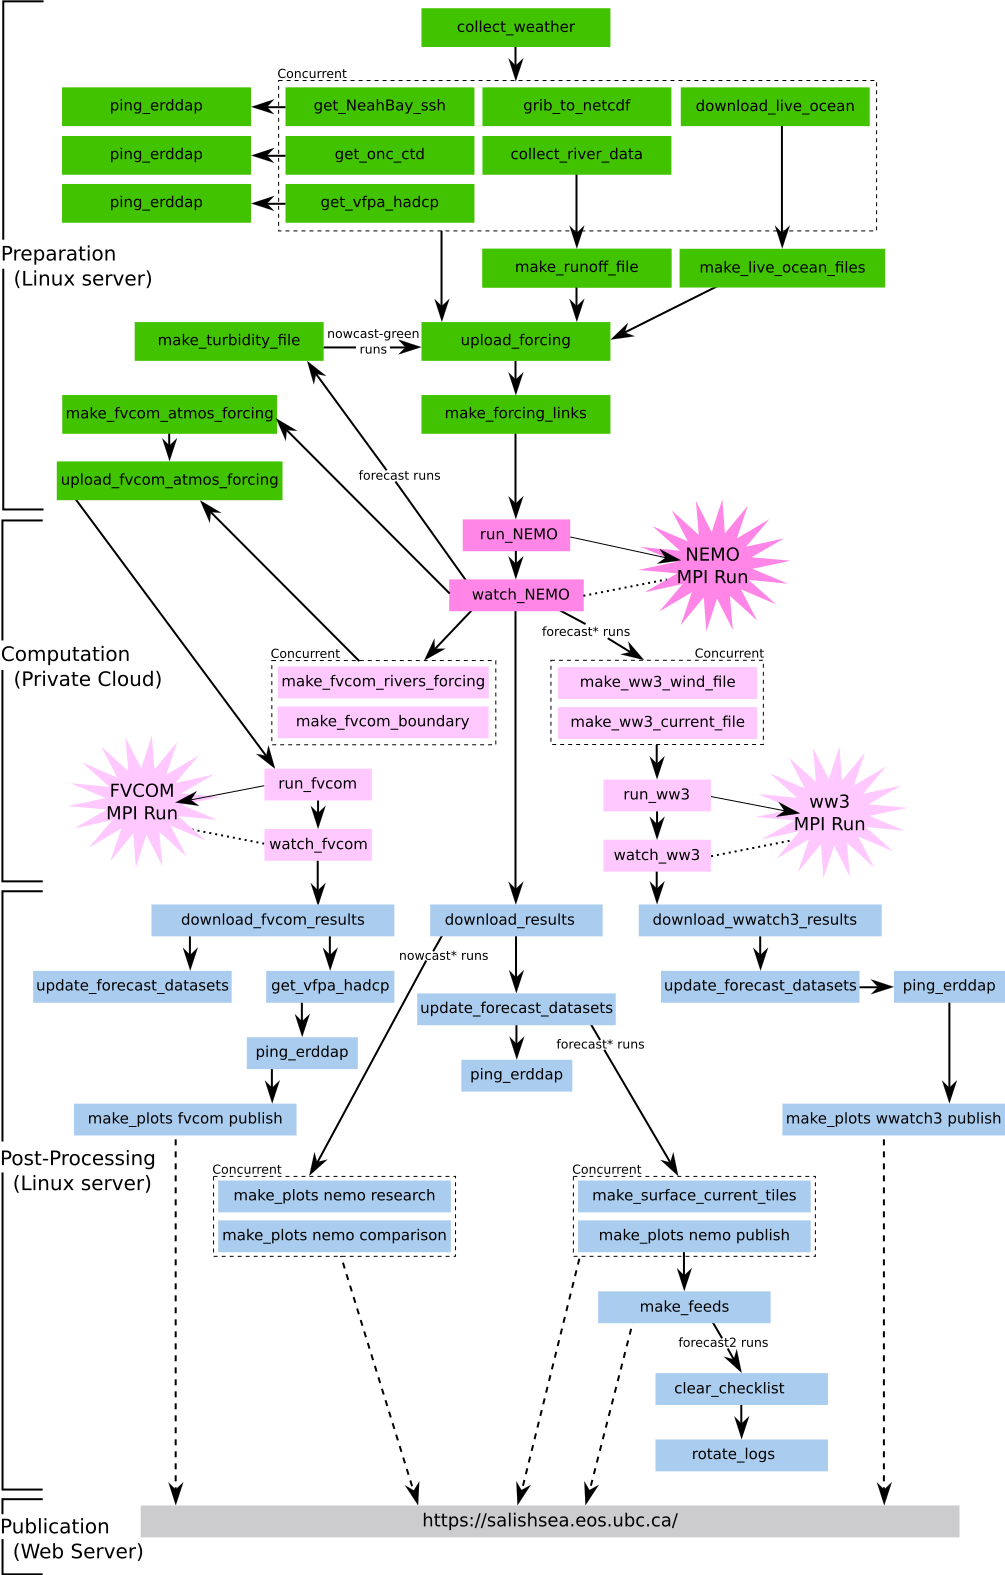
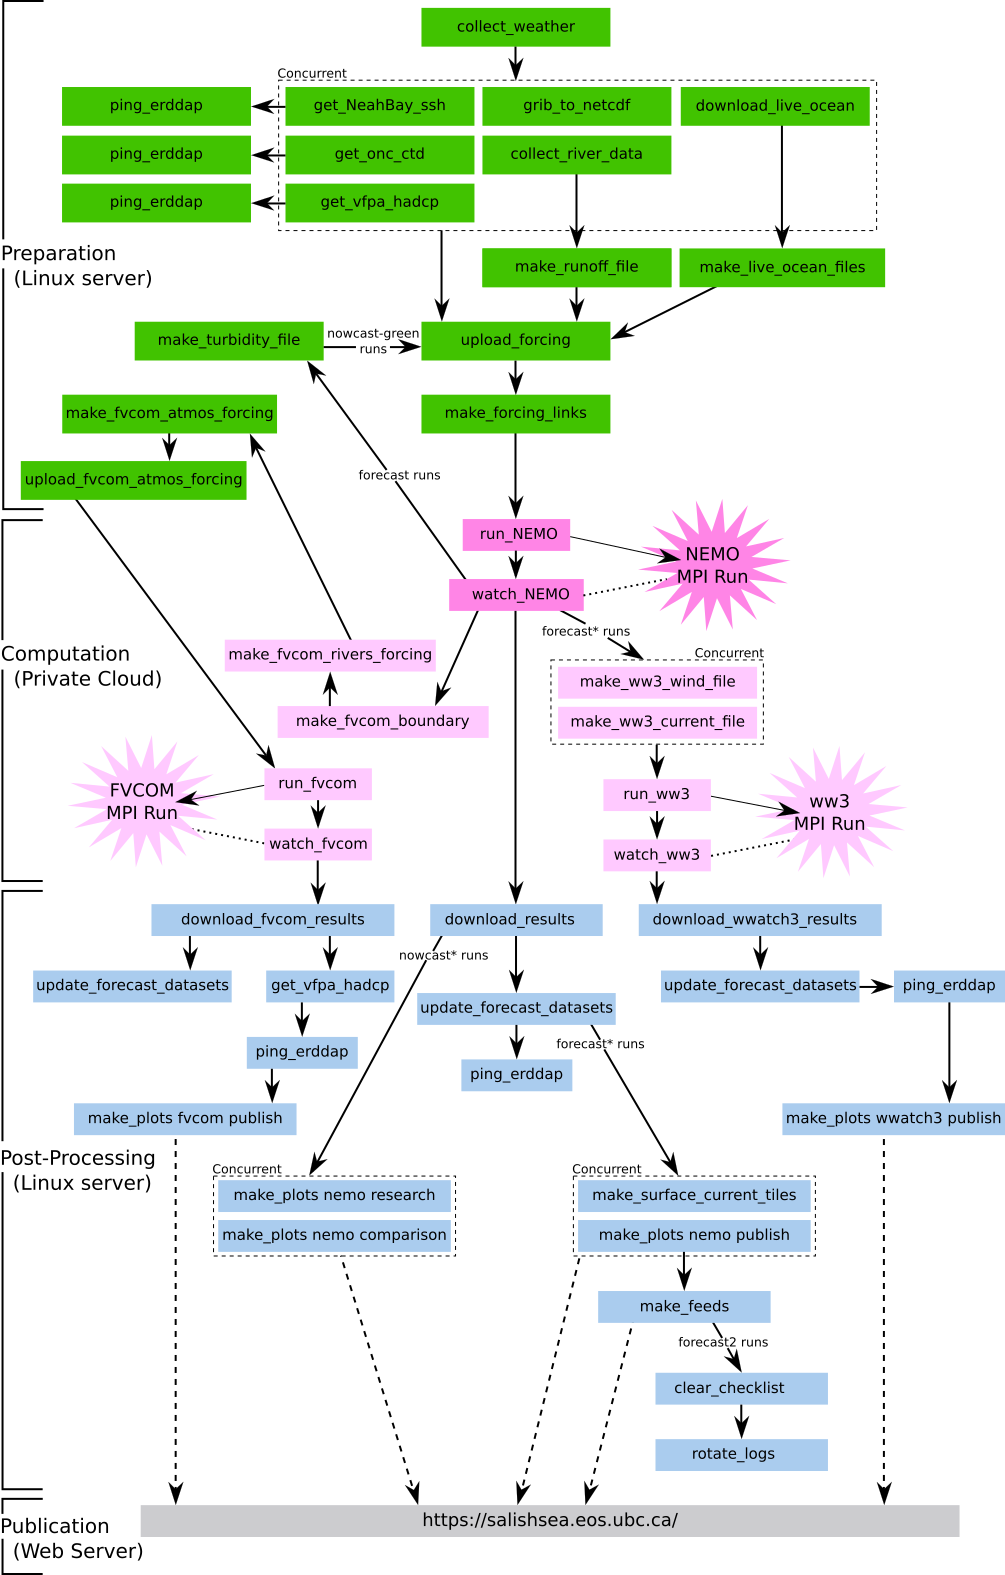
Launch make_fvcom_rivers_forcing after make_fvcom_boundary.
To avoid a possible race conditions on creation of the input/ directory.

diff --git a/tests/test_next_workers.py b/tests/test_next_workers.py
@@ -962,29 +962,6 @@ class TestAfterWatchNEMO:
         )
         assert expected in workers
 
-    def test_success_nowcast_launch_make_fvcom_rivers_forcing(self, config, checklist):
-        workers = next_workers.after_watch_NEMO(
-            Message(
-                "watch_NEMO",
-                "success nowcast",
-                {
-                    "nowcast": {
-                        "host": "west.cloud",
-                        "run date": "2018-02-01",
-                        "completed": True,
-                    }
-                },
-            ),
-            config,
-            checklist,
-        )
-        expected = NextWorker(
-            "nowcast.workers.make_fvcom_rivers_forcing",
-            args=["west.cloud", "nowcast"],
-            host="west.cloud",
-        )
-        assert expected in workers
-
     def test_success_forecast_launch_make_turbidity_file(self, config, checklist):
         workers = next_workers.after_watch_NEMO(
             Message(
@@ -1421,6 +1398,31 @@ class TestAfterMakeFVCOMBoundary:
         )
         assert expected in workers
 
+    @pytest.mark.parametrize("run_type", ["nowcast", "forecast"])
+    def test_success_launch_make_fvcom_rivers_forcing(
+        self, run_type, config, checklist
+    ):
+        workers = next_workers.after_make_fvcom_boundary(
+            Message(
+                "make_fvcom_boundary",
+                f"success {run_type}",
+                payload={
+                    run_type: {
+                        "run date": "2019-02-06",
+                        "open boundary file": "input/bdy_nowcast_btrp_20180316.nc",
+                    }
+                },
+            ),
+            config,
+            checklist,
+        )
+        expected = NextWorker(
+            "nowcast.workers.make_fvcom_rivers_forcing",
+            args=["west.cloud", run_type, "--run-date", "2019-02-06"],
+            host="west.cloud",
+        )
+        assert expected in workers
+
 
 class TestAfterMakeFVCOMAtmosForcing:
     """Unit tests for the after_make_fvcom_atmos_forcing function.
@@ -1585,29 +1587,6 @@ class TestAfterWatchFVCOM:
         )
         expected = NextWorker(
             "nowcast.workers.make_fvcom_boundary",
-            args=["west.cloud", "forecast"],
-            host="west.cloud",
-        )
-        assert expected in workers
-
-    def test_success_nowcast_launch_make_fvcom_rivers_forcing(self, config, checklist):
-        workers = next_workers.after_watch_fvcom(
-            Message(
-                "watch_fvcom",
-                "success nowcast",
-                {
-                    "nowcast": {
-                        "host": "west.cloud",
-                        "run date": "2019-02-01",
-                        "completed": True,
-                    }
-                },
-            ),
-            config,
-            checklist,
-        )
-        expected = NextWorker(
-            "nowcast.workers.make_fvcom_rivers_forcing",
             args=["west.cloud", "forecast"],
             host="west.cloud",
         )

diff --git a/nowcast/next_workers.py b/nowcast/next_workers.py
@@ -636,11 +636,6 @@ def after_watch_NEMO(msg, config, checklist):
                         args=[(config["vhfr fvcom runs"]["host"]), "nowcast"],
                         host=(config["vhfr fvcom runs"]["host"]),
                     ),
-                    NextWorker(
-                        "nowcast.workers.make_fvcom_rivers_forcing",
-                        args=[(config["vhfr fvcom runs"]["host"]), "nowcast"],
-                        host=(config["vhfr fvcom runs"]["host"]),
-                    ),
                 ]
             )
         if run_type == "forecast":
@@ -884,12 +879,24 @@ def after_make_fvcom_boundary(msg, config, checklist):
         host_name = config["vhfr fvcom runs"]["host"]
         run_type = msg.type.split()[1]
         run_date = msg.payload[run_type]["run date"]
-        next_workers[msg.type].append(
-            NextWorker(
-                "nowcast.workers.make_fvcom_atmos_forcing",
-                args=[run_type, "--run-date", run_date],
-                host="localhost",
-            )
+        next_workers[msg.type].extend(
+            [
+                NextWorker(
+                    "nowcast.workers.make_fvcom_atmos_forcing",
+                    args=[run_type, "--run-date", run_date],
+                    host="localhost",
+                ),
+                NextWorker(
+                    "nowcast.workers.make_fvcom_rivers_forcing",
+                    args=[
+                        (config["vhfr fvcom runs"]["host"]),
+                        run_type,
+                        "--run-date",
+                        run_date,
+                    ],
+                    host=(config["vhfr fvcom runs"]["host"]),
+                ),
+            ]
         )
     return next_workers[msg.type]
 
@@ -1044,19 +1051,12 @@ def after_watch_fvcom(msg, config, checklist):
             )
         )
         if run_type == "nowcast":
-            next_workers[msg.type].extend(
-                [
-                    NextWorker(
-                        "nowcast.workers.make_fvcom_boundary",
-                        args=[(config["vhfr fvcom runs"]["host"]), "forecast"],
-                        host=(config["vhfr fvcom runs"]["host"]),
-                    ),
-                    NextWorker(
-                        "nowcast.workers.make_fvcom_rivers_forcing",
-                        args=[(config["vhfr fvcom runs"]["host"]), "forecast"],
-                        host=(config["vhfr fvcom runs"]["host"]),
-                    ),
-                ]
+            next_workers[msg.type].append(
+                NextWorker(
+                    "nowcast.workers.make_fvcom_boundary",
+                    args=[(config["vhfr fvcom runs"]["host"]), "forecast"],
+                    host=(config["vhfr fvcom runs"]["host"]),
+                )
             )
     return next_workers[msg.type]
 
